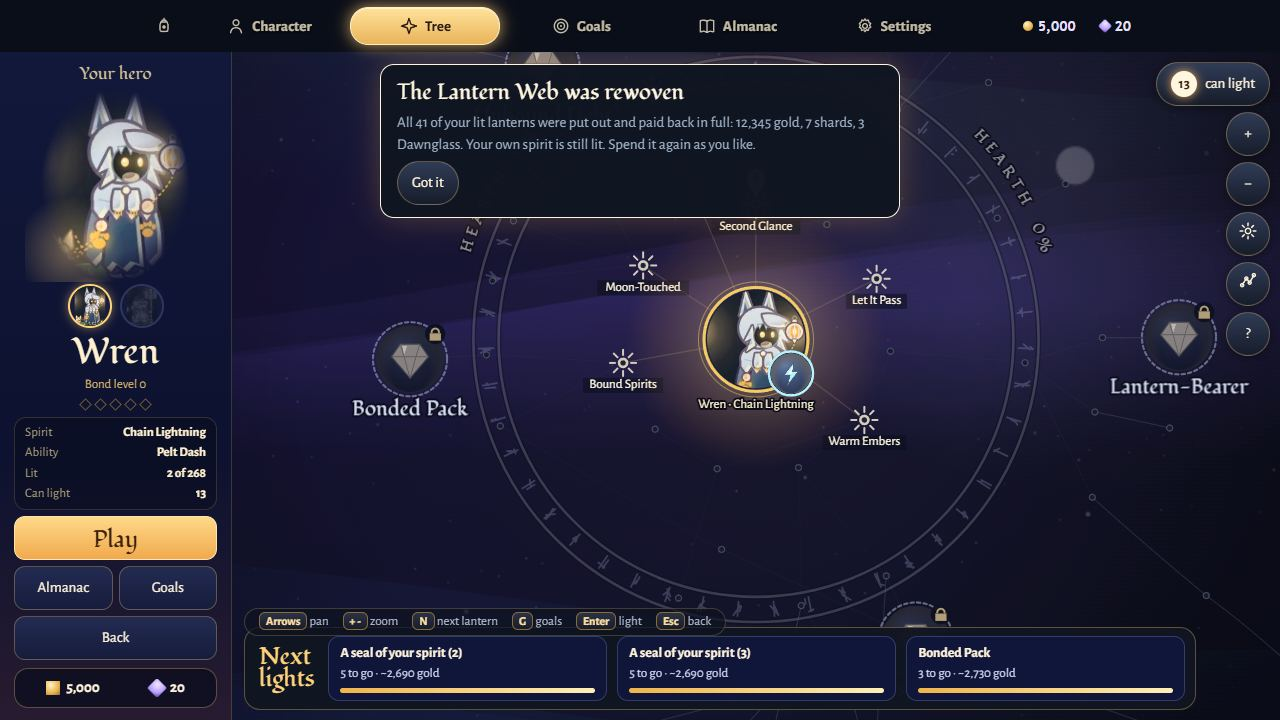
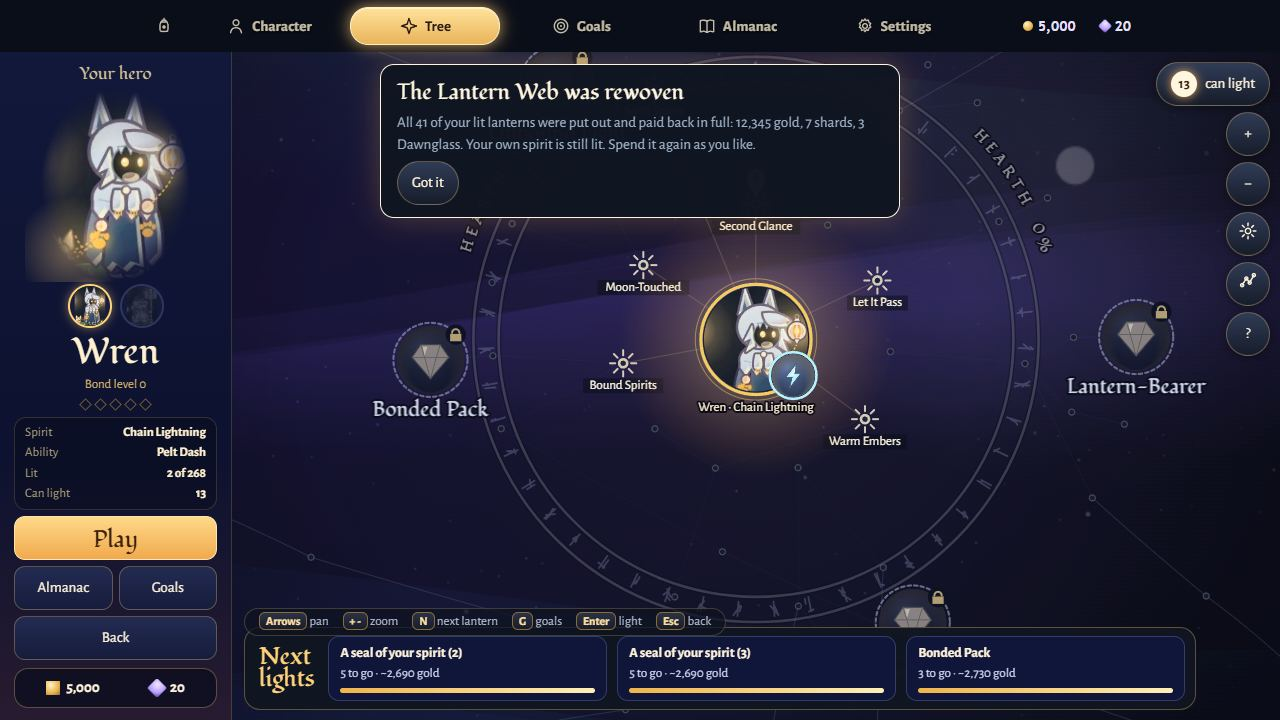
Tree polish: tool and display coins follow the landmark size rule, far-zoom factor, smoke fixes, shots

diff --git a/src/ui/treescreen.js b/src/ui/treescreen.js
@@ -543,7 +543,11 @@ export class TreeScreen {
     return screenDiameter(t, Number.isFinite(d) ? d : TIER_SIZE[t], this.cam.z, this.uk || 1) / 2;
   }
   /** Landmark medallion diameter in px: base by kind (heart 1, key / socket / gate / hero / kin 0.74, teaser 0.54) x a gentle zoom factor, same everywhere on the map. */
-  landmarkD(id) { return this.presence(id) * (this.uk || 1) * LOOK.medSize * clamp(0.8 + 0.45 * this.cam.z, 0.9, 1.12); }
+  /** Medallion zoom factor shared by every landmark and the hub coin: 0.64 zoomed right out, 1.12 close in. */
+  zoomK() { return clamp(0.58 + 0.7 * this.cam.z, 0.64, 1.12); }
+  /** Radius of a landmark-sized medallion with this size step (heart 1, others 0.74). */
+  stdR(step) { return ((this.small ? 62 : 92) * step * (this.uk || 1) * LOOK.medSize * this.zoomK()) / 2; }
+  landmarkD(id) { return this.presence(id) * (this.uk || 1) * LOOK.medSize * this.zoomK(); }
   presence(id) { const k = this.def.nodes[id].kind; return (this.small ? 62 : 92) * (k === 'heart' ? 1 : k === 'teaser' ? 0.54 : 0.74); }
   boost() { return clamp((this.view.lod.near - this.cam.z) / (this.view.lod.near - 0.3), 0, 1); }
   /** FAR only: greedy collapse of landmarks that would overlap on screen. Returns Map id -> leader id (leaders map to themselves); this.farCount = leader -> how many hidden behind it. */
@@ -614,7 +618,7 @@ export class TreeScreen {
     c.fillStyle = pool;
     c.beginPath(); c.arc(hx, hy, R, 0, 7); c.fill();
     this.atlas.beginFrame();
-    this.hubR = clamp(150 * z * 1.0, 15, 50) * this.uk;
+    this.hubR = ((this.small ? 62 : 92) * LOOK.medSize * this.zoomK() * 0.56) * this.uk; // the hub coin is the biggest medallion by one clear step (a heart is 0.5 of the base)
     this.drawFarSlots(lod);
     this.drawRegions();
     this.drawToolCoins(lod);
@@ -892,7 +896,7 @@ export class TreeScreen {
     }
     if (this.atlas.pending) this.dirty();
   }
-  toolR(bo) { return (this.small ? 24 : 38) * (this.uk || 1) * (0.6 + 0.4 * bo); }
+  toolR() { return this.stdR(0.74); } // a tool group's picture coin is a plain landmark (same size as a key / socket / gate)
   costText(nx) {
     if (!nx) return '';
     const p = [];
@@ -1056,7 +1060,7 @@ export class TreeScreen {
   drawDisplay(c, lod) {
     if (!this.display || !this.display.length) return;
     const z = this.cam.z, uk = this.uk || 1, s = this.api.save();
-    const r = clamp(34 * z, 19, 80) * LOOK.medSize * uk;
+    const r = this.stdR(0.74); // display medallions (heroes, nights, reserved slots) are plain landmarks too
     for (const d of this.display) {
       const [x, y] = this.toS(d.x, d.y);
       if (x < -r - 60 || x > this.W + r + 60 || y < -r - 40 || y > this.H + r + 60) continue;
